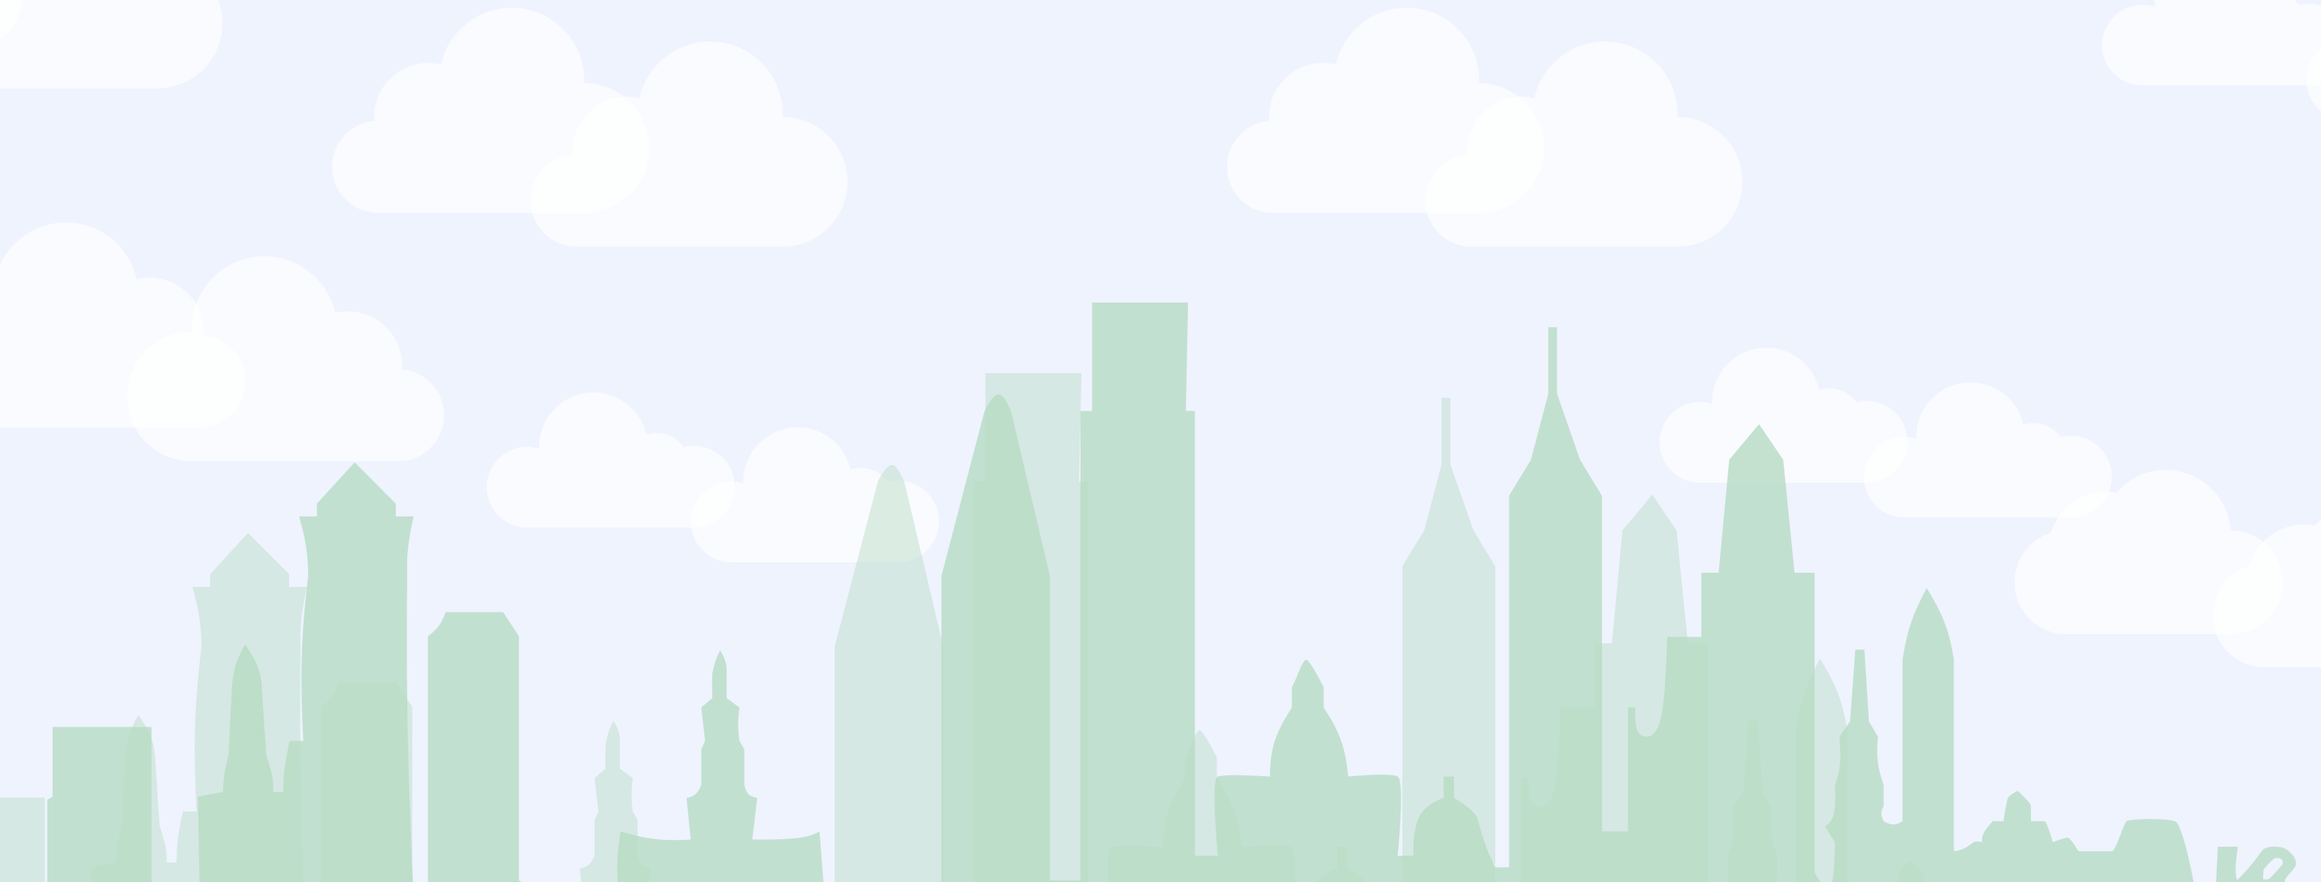
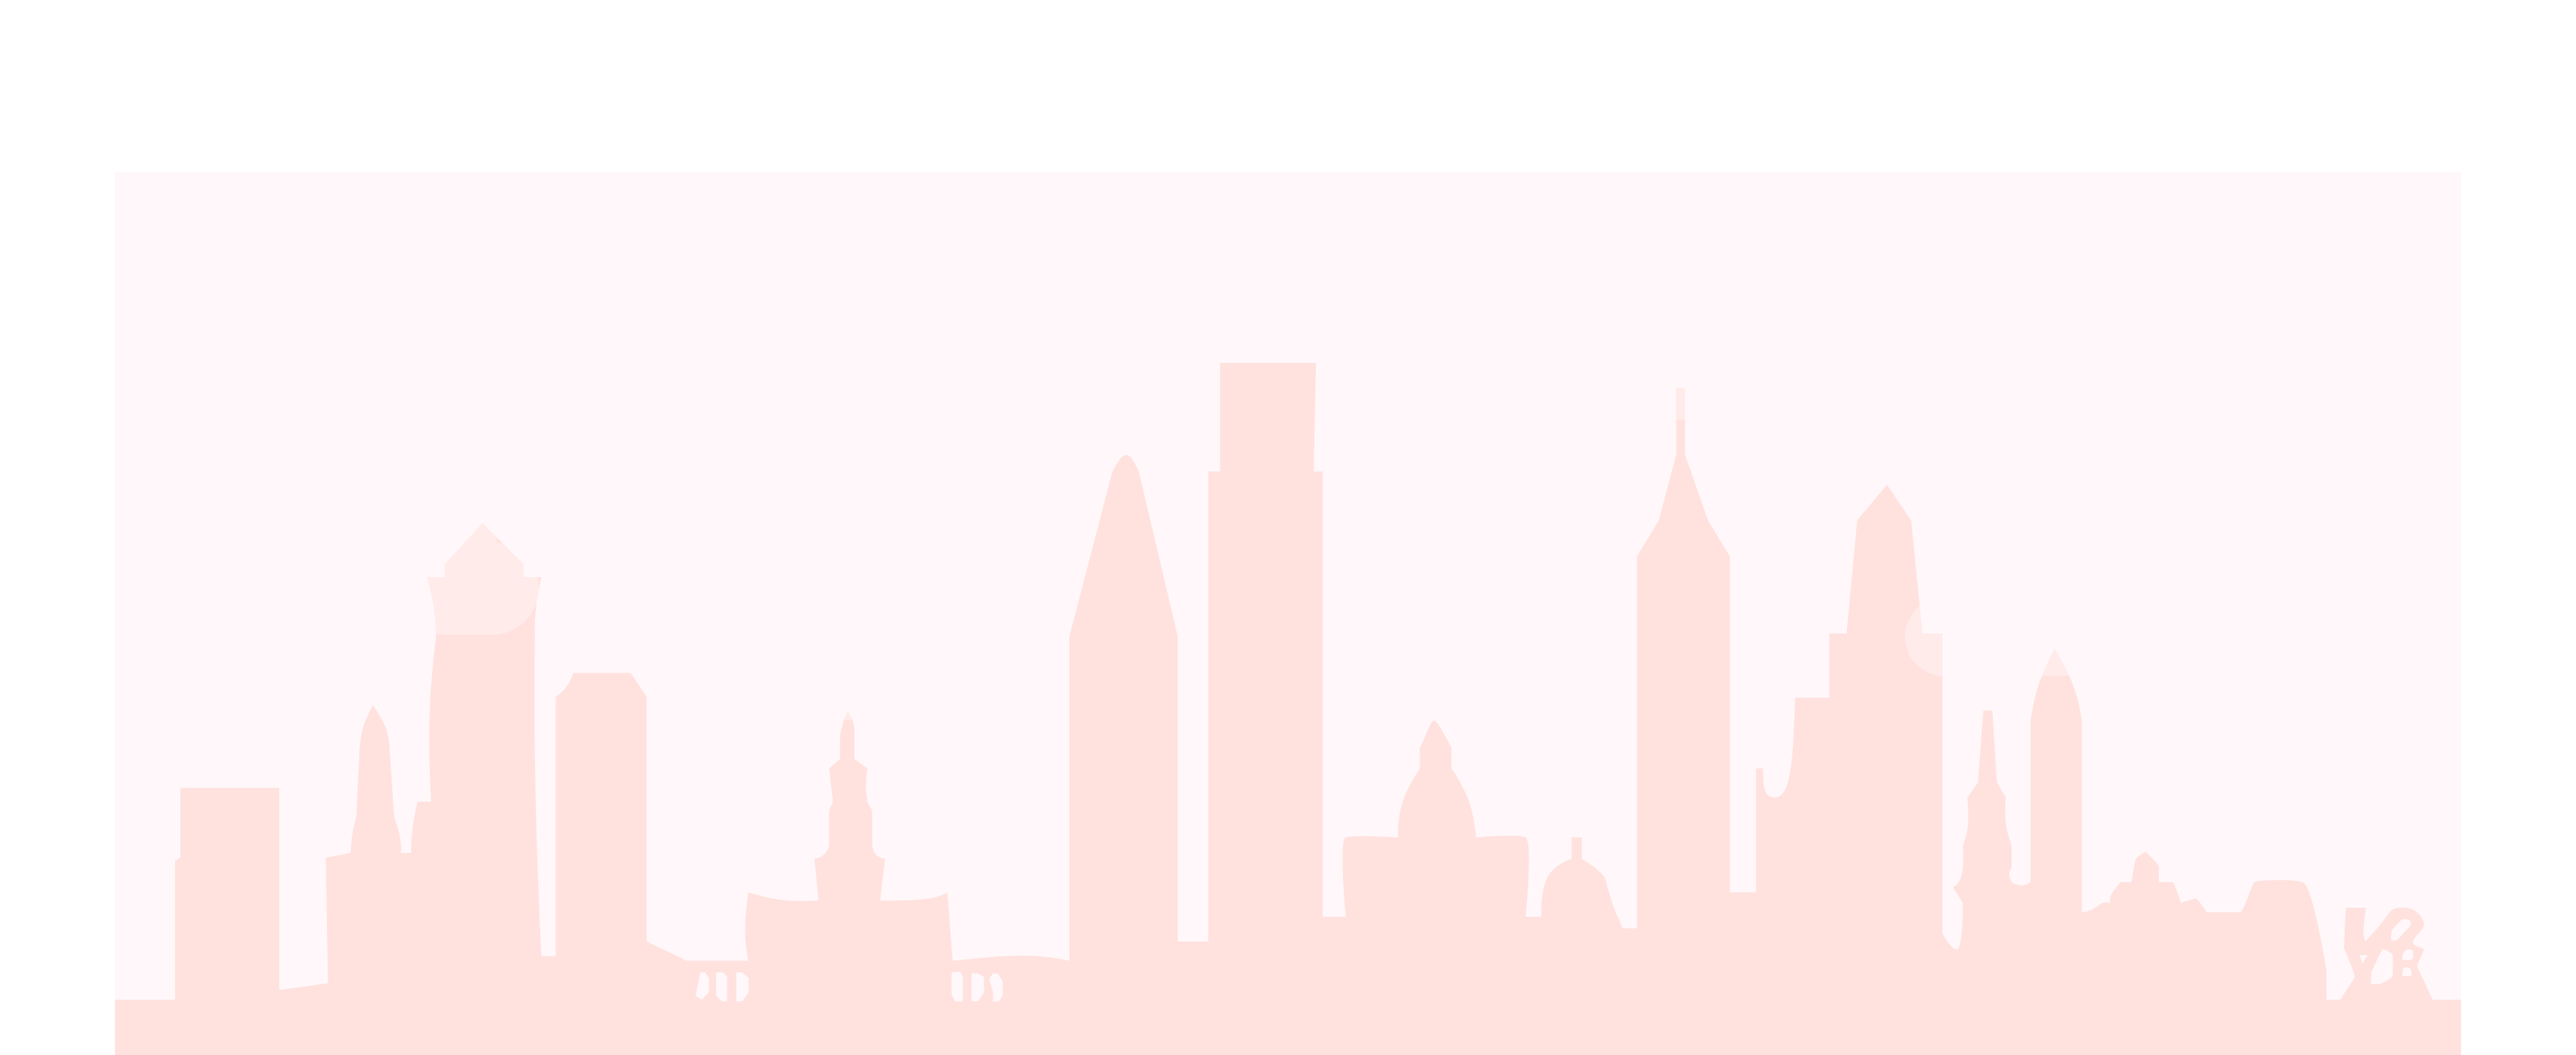
2023 color scheme, link, and date changes round 1

diff --git a/src/components/sections/Sponsors.js b/src/components/sections/Sponsors.js
@@ -23,6 +23,8 @@ import TCPWLogo from '@images/logos/tcpw.png';
 // import { ReactComponent as FacebookLogo } from '@images/logos/facebook.svg';
 import LinodeLogo from '@images/logos/linode.svg';
 
+import JaneStreetLogo from '@images/logos/jane-street.png';
+
 // const LOGOS = [
 //   {
 //     logo: FacebookLogo,
@@ -50,27 +52,28 @@ const Sponsors = () => (
       <Section id="sponsors" accent>
         <StyledContainer>
           <div>
-            <h1>Our 2022 Sponsors <Emoji symbol="💕" /></h1>
+            <h1>Our 2023 Sponsors <Emoji symbol="💕" /></h1>
             <LogoGrid>
               <a href="https://cloud.google.com"> <img width="350" src={GCPLogo} /> </a>
-              <a href="https://about.facebook.com/meta/"> <img className="sponsor-logo-class" src={MetaLogo} /> </a>
+              {/*<a href="https://about.facebook.com/meta/"> <img className="sponsor-logo-class" src={MetaLogo} /> </a>
               <a href="https://careers.microsoft.com/"> <img className="sponsor-logo-class" src={MsftLogo} /> </a> 
               <a href="https://www.vanguardjobs.com/"> <img className="sponsor-logo-class" src={VanguardLogo} /> </a>
               <a href="https://www.bloomberg.com/company/engineering/"><img width="250px" src={BloombergLogo} /></a>
               <a href="https://www.nerdwallet.com/?bucket_id=dt-hp&ds_rl=1246084&gclid=Cj0KCQiAgP6PBhDmARIsAPWMq6kU2lzF2hxIw7n67CEmqEmVPSZo0XmFuUD7hH8AlVhmSiV_zAweWEcaAoMBEALw_wcB&gclsrc=aw.ds&mktg_body=1678&mktg_hline=19498&mktg_img=3598&mktg_place=kwd-40958987563%7D&model_execution_id=DB0B89FD-876C-4011-83E1-4177EB33C3EC&nw_campaign_id=150238270218585900&utm_campaign=cc_mktg_paid_060716_brand_exact&utm_content=ta&utm_medium=cpc&utm_source=goog&utm_term=nerdwallet"> <img width="260px" src={NWLogo} /> </a> 
               <a href="https://www.alumni.upenn.edu/s/1587/gid2/16/interior_1col.aspx?sid=1587&gid=2&pgid=420"> <img className="sponsor-logo-class" src={TCPWLogo} /> </a>
-              <a href="https://mackinstitute.wharton.upenn.edu"><img width="230px" src={MackLogo} /></a>
+    <a href="https://mackinstitute.wharton.upenn.edu"><img width="230px" src={MackLogo} /></a>*/}
               <a href="https://www.linode.com/"><img width="230px" src={LinodeLogo} /></a>
+              <a href="https://www.linode.com/"><img width="230px" src={JaneStreetLogo} /></a>
               {/* <a href="https://www.mckinsey.com/careers/home"><img width="230px" src={MckLogo} /></a> */}
               {/* <a href="https://www.twilio.com/company/jobs"><img width="230px" src={TwilioLogo} /></a> */}
-              <a href="https://1password.com/jobs/"><img width="230px" src={OnePLogo} /></a>
+              {/*<a href="https://1password.com/jobs/"><img width="230px" src={OnePLogo} /></a>*/}
               {/* {LOGOS.map(({ logo, link }) => (
                 <ExternalLink key={link} href={link}>
                   {logo()}
                 </ExternalLink>
               ))} */}
             </LogoGrid>
-            <p> Interested in sponsoring FemmeHacks 2023? Feel free to reach out to <a href="mailto:sponsor@femmehacks.io">sponsor@femmehacks.io</a>, we'd love to hear from you!</p>
+            <p> Interested in sponsoring FemmeHacks 2024? Feel free to reach out to <a href="mailto:sponsor@femmehacks.io">sponsor@femmehacks.io</a>, we'd love to hear from you!</p>
           </div>
           {/* <Art>
             <Img fluid={data.art_story.childImageSharp.fluid} />

diff --git a/src/components/sections/Faq.js b/src/components/sections/Faq.js
@@ -22,28 +22,26 @@ const GeneralFAQS = [
     title: 'When and where will FemmeHacks be?',
     content: () => (
       <p>
-        This year, FemmeHacks will take place on February 11th-12th, 2022. Because of
-        COVID-19, FemmeHacks will be held entirely virtually, so you can hack from the
-        comfort of your home!
+        This year, FemmeHacks will take place on February 10th-11th, 2023. We look forward to seeing all of you back in-person on Penn campus this year!
       </p>
     ),
   },
-  {
-    title: 'How will FemmeHacks work virtually?',
-    content: () => (
-      <p>
-        We will be using Discord
-        for communication purposes and Zoom for workshops! All meeting links will be compiled into an Airtable that only registered participants have access to.
-      </p>
-    ),
-  },
+  // {
+  //   title: 'How will FemmeHacks work virtually?',
+  //   content: () => (
+  //     <p>
+  //       We will be using Discord
+  //       for communication purposes and Zoom for workshops! All meeting links will be compiled into an Airtable that only registered participants have access to.
+  //     </p>
+  //   ),
+  // },
   {
     title: 'What kinds of projects have past attendees made?',
     content: () => (
       <p>
         Past attendees have made all sorts of web, mobile, and hardware
         applications. <a href="https://femmehacks-2021.devpost.com/project-gallery" target="_blank">View
-          projects that our attendees built last year here</a>!
+          projects that our attendees have built here</a>!
       </p>
     ),
   },
@@ -51,8 +49,7 @@ const GeneralFAQS = [
     title: 'Will there be swag or prizes?',
     content: () => (
       <p>
-        Yes! We'll be shipping all domestic
-        attendees FemmeHacks stickers, and hackers who submit project to Devpost will receive free t-shirts and face masks :)
+        Yes, there will be swag handed out at the event!
       </p>
     ),
   },
@@ -75,9 +72,7 @@ const RegistrationFAQS = [
     title: 'Who can attend FemmeHacks?',
     content: () => (
       <p>
-        Any women-identifying or non-binary folk can attend FemmeHacks, regardless of
-        physical location. Because this year is virtual, we especially encourage people
-        from outside of Philly to apply as well!
+        Any women-identifying or non-binary folk can attend FemmeHacks.
       </p>
     ),
   },
@@ -85,7 +80,7 @@ const RegistrationFAQS = [
     title: 'How can I register?',
     content: () => (
       <p>
-        Register through <a href="https://docs.google.com/forms/d/e/1FAIpQLSeaSkU2ZfppdP9a4srNLh1A-rmnsU9hEQlK8YgCjGM7ykAWpg/viewform" target="_blank">this link</a>!
+        Register through <a href="https://forms.gle/kkrF5KBK3j2Dgiw98" target="_blank">this link</a>!
       </p>
     ),
   },
@@ -93,7 +88,7 @@ const RegistrationFAQS = [
     title: 'When do I need to register by?',
     content: () => (
       <p>
-        Registrations will be considered on a rolling basis until <b>February 7th, 2022</b>.
+        Registrations will be considered on a rolling basis until <b>February 3th, 2023</b>.
         After then, we will only consider applications if we have the capacity for more hackers.
       </p>
     ),

diff --git a/src/components/sections/Header.js b/src/components/sections/Header.js
@@ -19,7 +19,7 @@ const Header = () => (
           name: { eq: "header-pic" }
         ) {
           childImageSharp {
-            fluid(maxWidth: 1400) {
+            fluid(maxWidth: 1400, quality: 100) {
               ...GatsbyImageSharpFluid_withWebp_tracedSVG
             }
           }
@@ -45,16 +45,16 @@ const Header = () => (
               />
             </Art>
             <Text>
-              <h1 style={{ fontSize: "40px" }}>
+              <h1 style={{ fontSize: "40px"}}>
                 An inclusive all-women &amp; non-binary hackathon. <Emoji symbol="👩💻" />
               </h1>
               <br />
-              <h3>February 11-12, 2022</h3>
+              <h3>February 10-11, 2023</h3>
               <br />
-              <p>Applications for FemmeHacks 2022 open now!</p>
+              <p>Applications for FemmeHacks 2023 open now!</p>
               <p>
                 <div style={{ height: "24px" }}></div>
-                <StyledExternalLink className="header-register-btn" href="https://docs.google.com/forms/d/e/1FAIpQLSeaSkU2ZfppdP9a4srNLh1A-rmnsU9hEQlK8YgCjGM7ykAWpg/viewform">
+                <StyledExternalLink className="header-register-btn" href="https://forms.gle/kkrF5KBK3j2Dgiw98">
                   Register now &nbsp;&#x2794;
                 </StyledExternalLink>
 

diff --git a/src/components/sections/Schedule.js b/src/components/sections/Schedule.js
@@ -8,13 +8,13 @@ import Emoji from "../common/emoji"
 const Schedule = () => (
   <Section id="schedule" accent>
     <Container>
-      <h1>2022 Schedule<Emoji symbol="🕒" /></h1>
-      <br />
+      <h1>2023 Schedule Coming Soon!<Emoji symbol="🕒" /></h1>
+      {/* <br />
       <p> All the <b>meeting links</b> are available on our Airtable -- please check the <b>Event Location</b> section in the acceptance email to find the <b>Airtable link</b>! All times are in Eastern Standard Time (EST).</p>
       <br />
       { <Row>
         <Col xs={12} md={6}>
-          <h3>February 11 (Friday)</h3>
+          <h3>February 10 (Friday)</h3>
           <p>
             <br /><b>3:00pm - 6:00pm</b>: <b>Check-in</b>
             <br /><b>3:00pm - 4:30pm</b>: Self-intro &amp; Team Formation on Discord
@@ -36,7 +36,7 @@ const Schedule = () => (
         </Col>
 
         <Col xs={12} md={6}>
-          <h3>February 12 (Saturday)</h3>
+          <h3>February 11 (Saturday)</h3>
           <p>
             <br /><b>7:00am - 8:00am</b>: Breakfast
             <br /><b>8:00am</b>: <b>Hacking Starts</b>
@@ -63,7 +63,7 @@ const Schedule = () => (
             <br /><b>9:40pm</b>: <b>Closing Ceremony</b>
           </p>
         </Col>
-      </Row> }
+      </Row> } */}
     </Container>
   </Section>
 );

diff --git a/src/components/sections/About.js b/src/components/sections/About.js
@@ -50,13 +50,12 @@ const About = () => (
       <Row>
         <Col xs={12} md={6} lg={4}>
           <h3>What is FemmeHacks?</h3>
-          <p>Now running on our 8th year, FemmeHacks is a two-day collegiate hackathon
+          <p>Now running on our 9th year, FemmeHacks is a two-day collegiate hackathon
             hosted at the University of Pennsylvania by the university’s Women in Computer
             Science chapter. FemmeHacks aims to <b>empower</b>, <b>educate</b>, and <b>inspire </b>
             women and non-binary folks across the nation. After forming teams,
             attendees build a variety of web, mobile, and hardware applications, learn from
-            workshops, and attend various speaker events. This year, FemmeHacks will be held
-            virtually. </p>
+            workshops, and attend various speaker events. This year, FemmeHacks will be back in-person! </p>
         </Col>
 
         <Col xs={12} md={6} lg={4}>

diff --git a/src/styles/GlobalStyles.js b/src/styles/GlobalStyles.js
@@ -22,14 +22,22 @@ const GlobalStyles = createGlobalStyle`
 
   h1 {
     ${props => props.theme.font_size.xlarge};
+    color: ${props => props.theme.color.purple.regular};
   }
 
   h2 {
     ${props => props.theme.font_size.larger};
+    color: ${props => props.theme.color.purple.light};
   }
 
   h3 {
     ${props => props.theme.font_size.large};
+    color: ${props => props.theme.color.purple.light};
+  }
+
+  p1 {
+    ${props => props.theme.font_size.regular};
+    color: ${props => props.theme.color.purple.lighter};
   }
 
   p {
@@ -60,7 +68,9 @@ const GlobalStyles = createGlobalStyle`
     background: none;
     outline: none;
     padding: 0;
-    cursor: pointer;
+    cursor: hand;
+    background-color: #872B97
+    color: #872B97
   }
 
   a {

diff --git a/src/styles/theme.js b/src/styles/theme.js
@@ -6,6 +6,7 @@ const theme = {
     secondary: `Chivo-Light, 'Chivo-Light', Chivo, 'Chivo', sans-serif`,
   },
   font_size: {
+    smallH4: 'font-size: 16px; line-height: 32px',
     small: 'font-size: 18px; line-height: 30px',
     regular: 'font-size: 18px; line-height: 32px',
     large: 'font-size: 24px; line-height: 40px',
@@ -19,10 +20,15 @@ const theme = {
     },
     black: {
       lighter: '#ABA8AF',
-      light: '#564F62',
-      regular: '#211E26',
+      light: '#272727',
+      regular: '#872B97',
     },
-    primary: '#D7E3FC',
+    purple: {
+      regular: '#872B97',
+      light: '#FF7A99',
+      lighter: '#FF7130'
+    },
+    primary: '#F3CBF4',
   },
   screen: {
     xs: '575px',

diff --git a/src/components/sections/Footer.js b/src/components/sections/Footer.js
@@ -57,7 +57,7 @@ const Footer = () => (
         <FooterWrapper>
           <StyledContainer>
             <Copyright>
-              <h5>© FemmeHacks 2022</h5>
+              <h5>© FemmeHacks 2023</h5>
               <span>
                 Made with &#9829; by FemmeHacks and Penn WiCS
                 {` `}

diff --git a/src/styles/index.css b/src/styles/index.css
@@ -12,12 +12,12 @@ p {
 }
 
 a {
-  color: #526EF4;
+  color: #872B97;
   font-weight: 400;
 }
 
 a:hover {
-  color: #526EF4;
+  color: #872B97;
 }
 
 .header-register-btn:hover {
